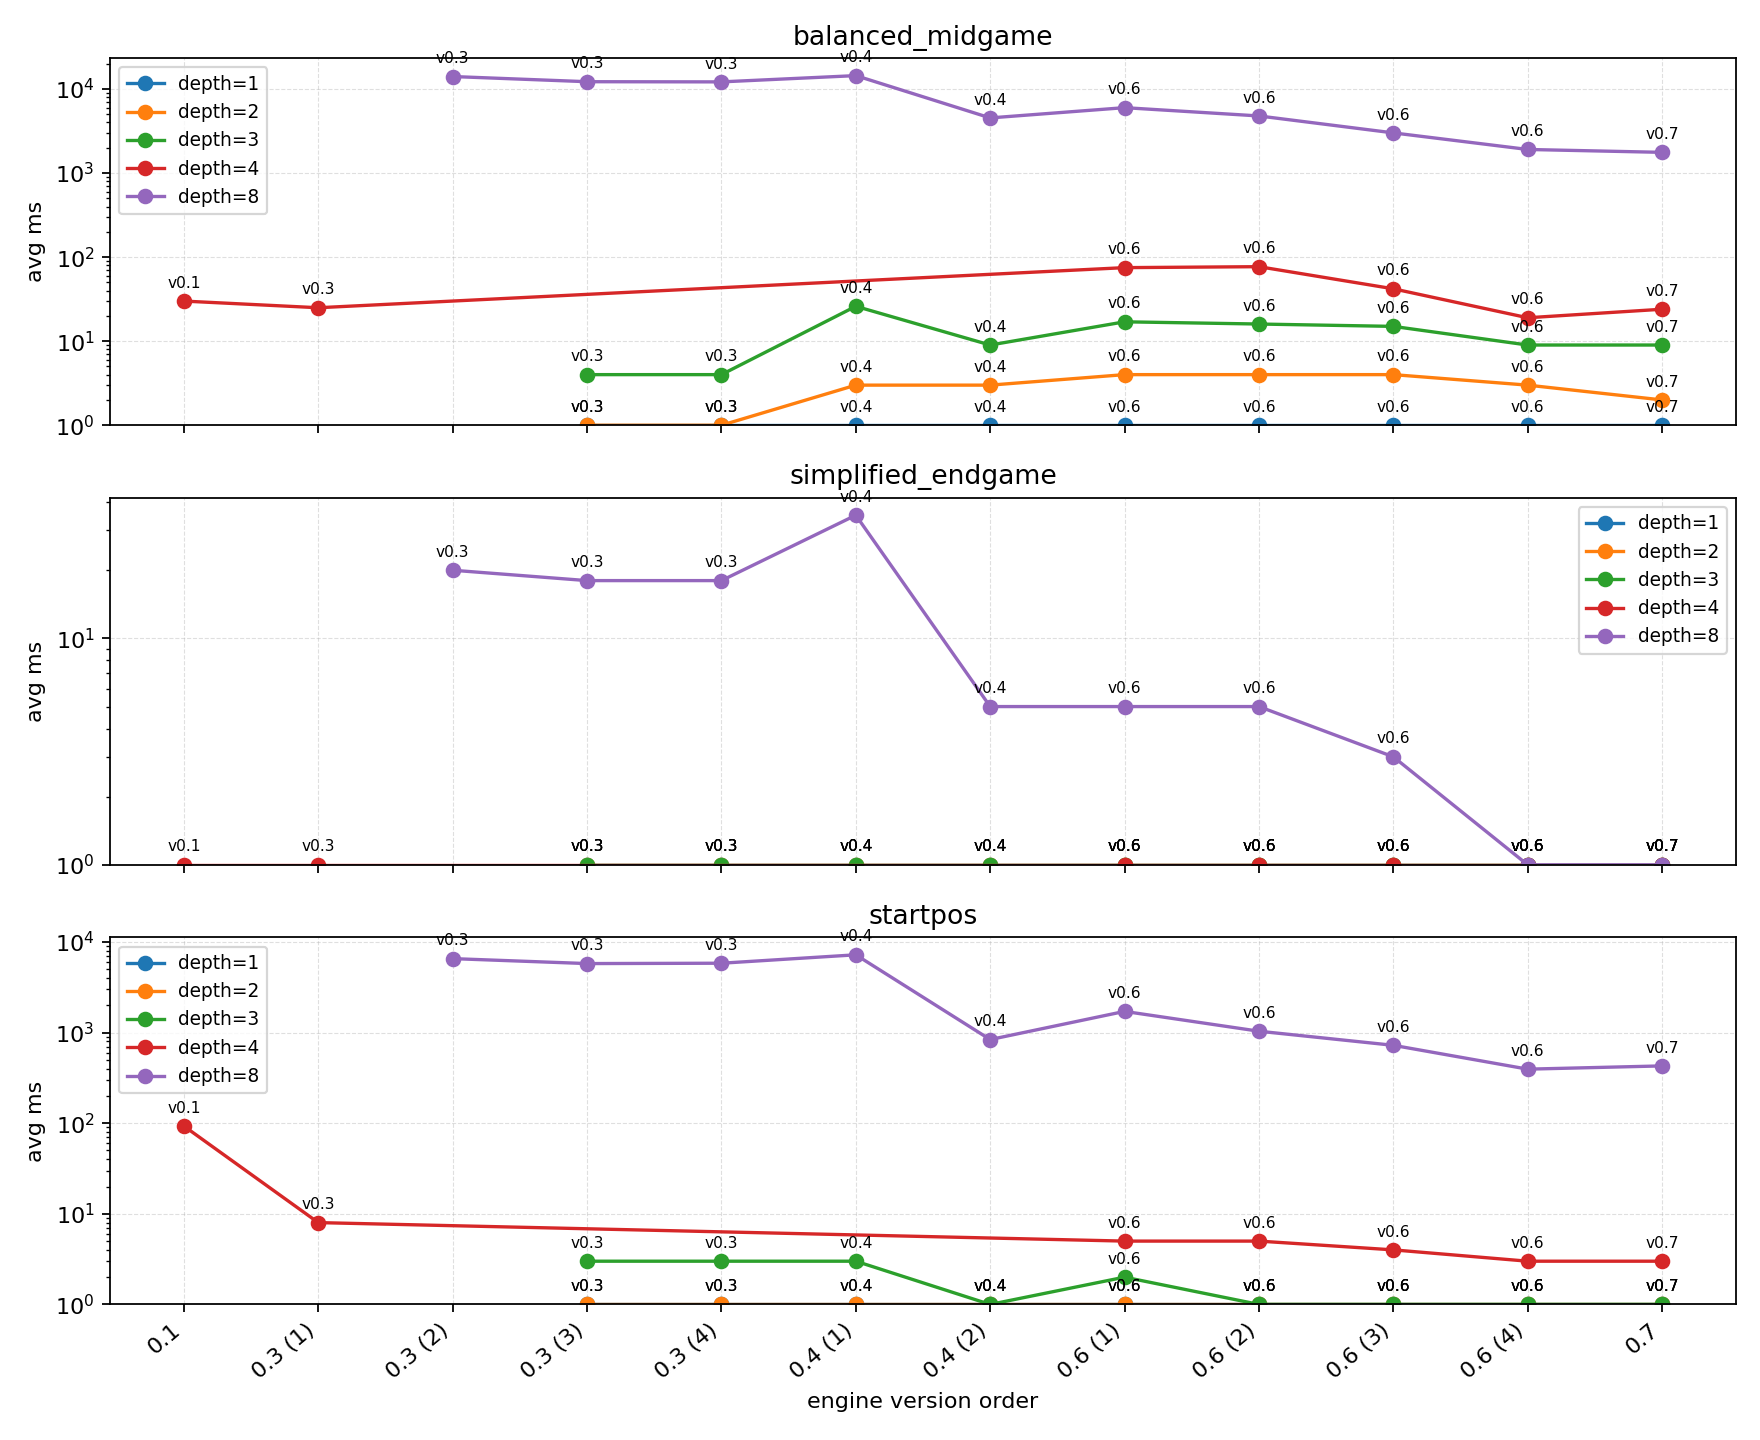
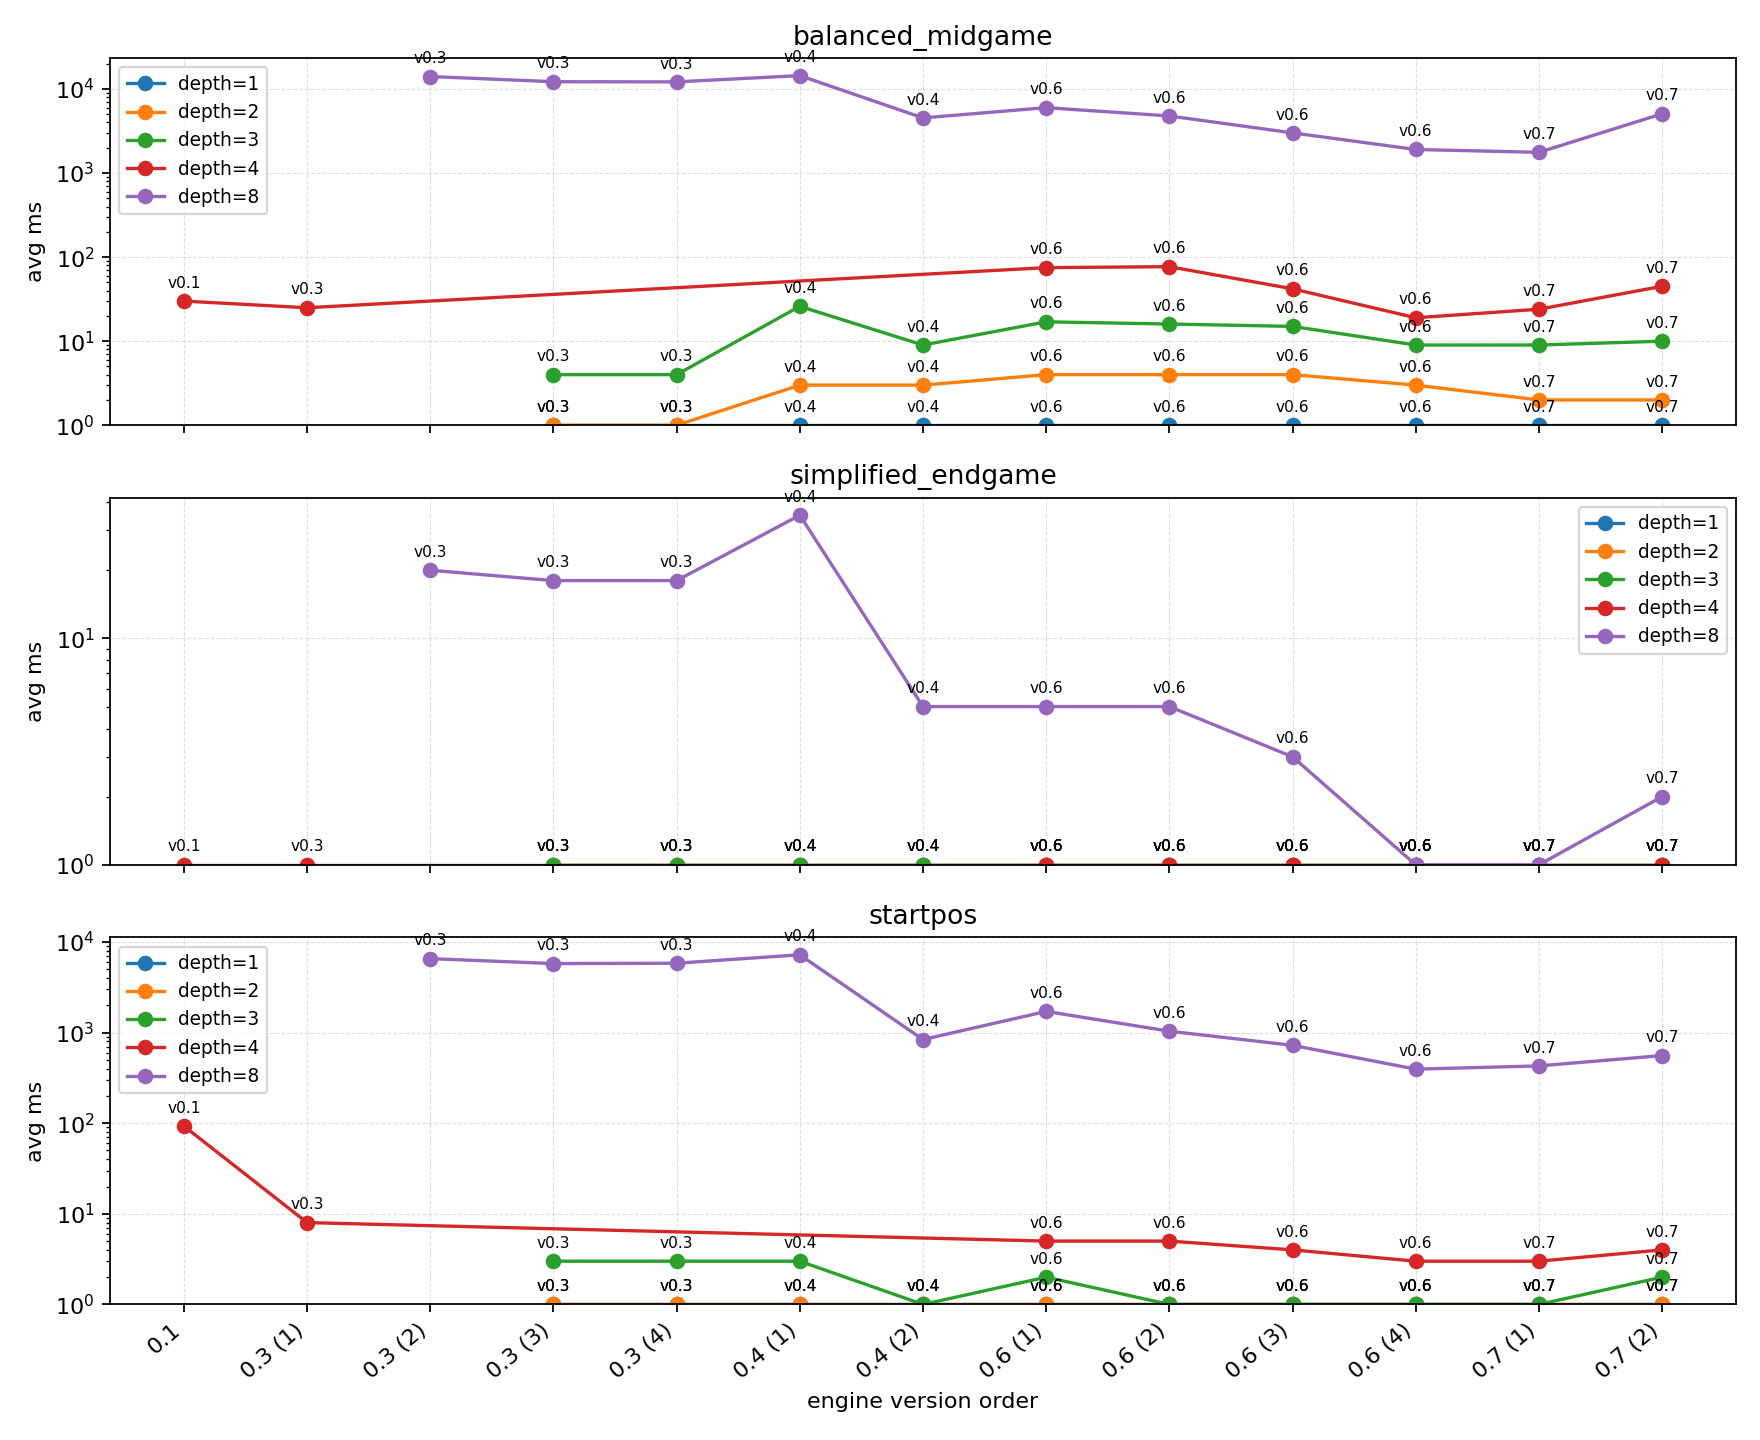
clean up

diff --git a/src/moves.cpp b/src/moves.cpp
@@ -17,7 +17,7 @@ namespace chess {
 
 struct MoveKey {
   uint32_t code;
-  int key; // higher is better
+  int key;        // higher is better
   uint16_t order; // original emission order for deterministic ties
 };
 
@@ -74,7 +74,7 @@ void sort_moves(const Board& board,
         key = 1'000'000 + mvv_lva_score(cap, pc);
         auto see_gain = static_exchange_eval(board, decode_move(m));
         if (see_gain < 0) {
-          key -= 10;
+          key = 10'000 + see_gain;
         } else {
           key += see_gain * 100;
         }
@@ -93,12 +93,13 @@ void sort_moves(const Board& board,
     keys[i] = {m, key, i};
   }
 
-  std::sort(keys.begin(), keys.begin() + move_count, [](const MoveKey& a, const MoveKey& b) {
-    if (a.key == b.key) {
-      return a.order < b.order;
-    }
-    return a.key > b.key;
-  });
+  std::sort(keys.begin(), keys.begin() + move_count,
+            [](const MoveKey& a, const MoveKey& b) {
+              if (a.key == b.key) {
+                return a.order < b.order;
+              }
+              return a.key > b.key;
+            });
 
   for (uint16_t i = 0; i < move_count; ++i)
     moves[i] = keys[i].code;

diff --git a/tools/plot_perf_runs.py b/tools/plot_perf_runs.py
@@ -122,9 +122,7 @@ def plot_metric(
         {(row.version, row.timestamp) for row in rows},
         key=lambda pair: (version_index.get(pair[0], sys.maxsize), pair[1]),
     )
-    snapshot_index = {
-        entry: idx for idx, entry in enumerate(snapshot_entries)
-    }
+    snapshot_index = {entry: idx for idx, entry in enumerate(snapshot_entries)}
     version_totals = Counter(version for version, _ in snapshot_entries)
     cases = sorted(case_map)
     fig, axes = plt.subplots(len(cases), 1, sharex=True, figsize=(11, 3 * len(cases)))
